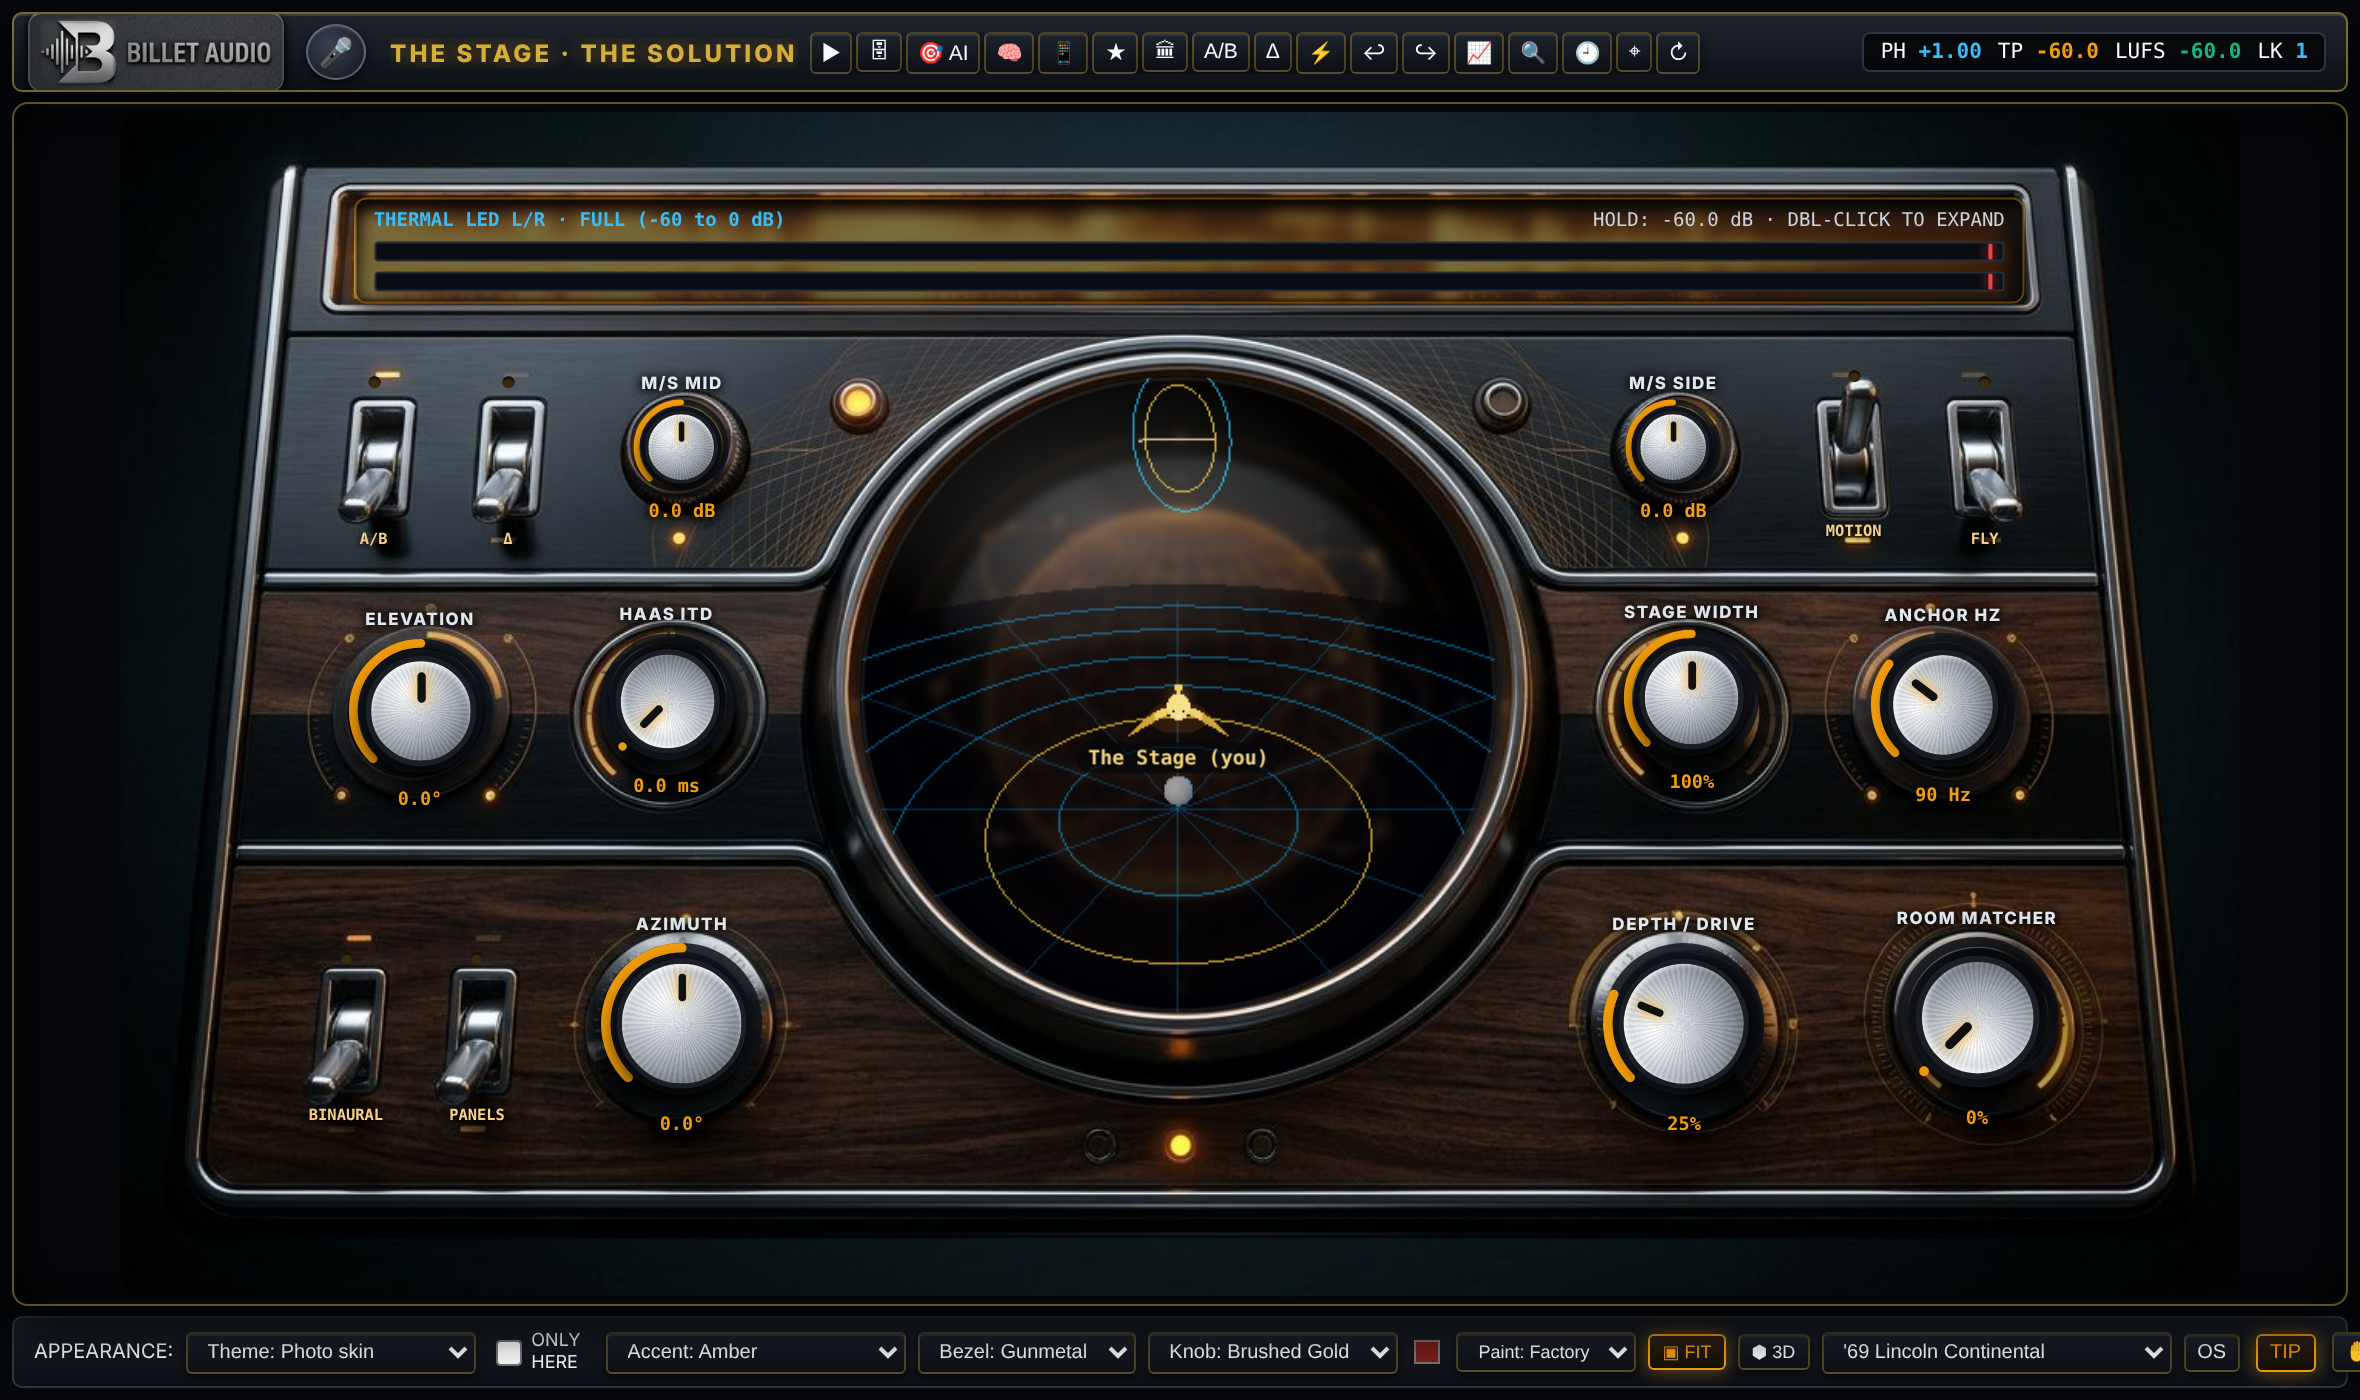
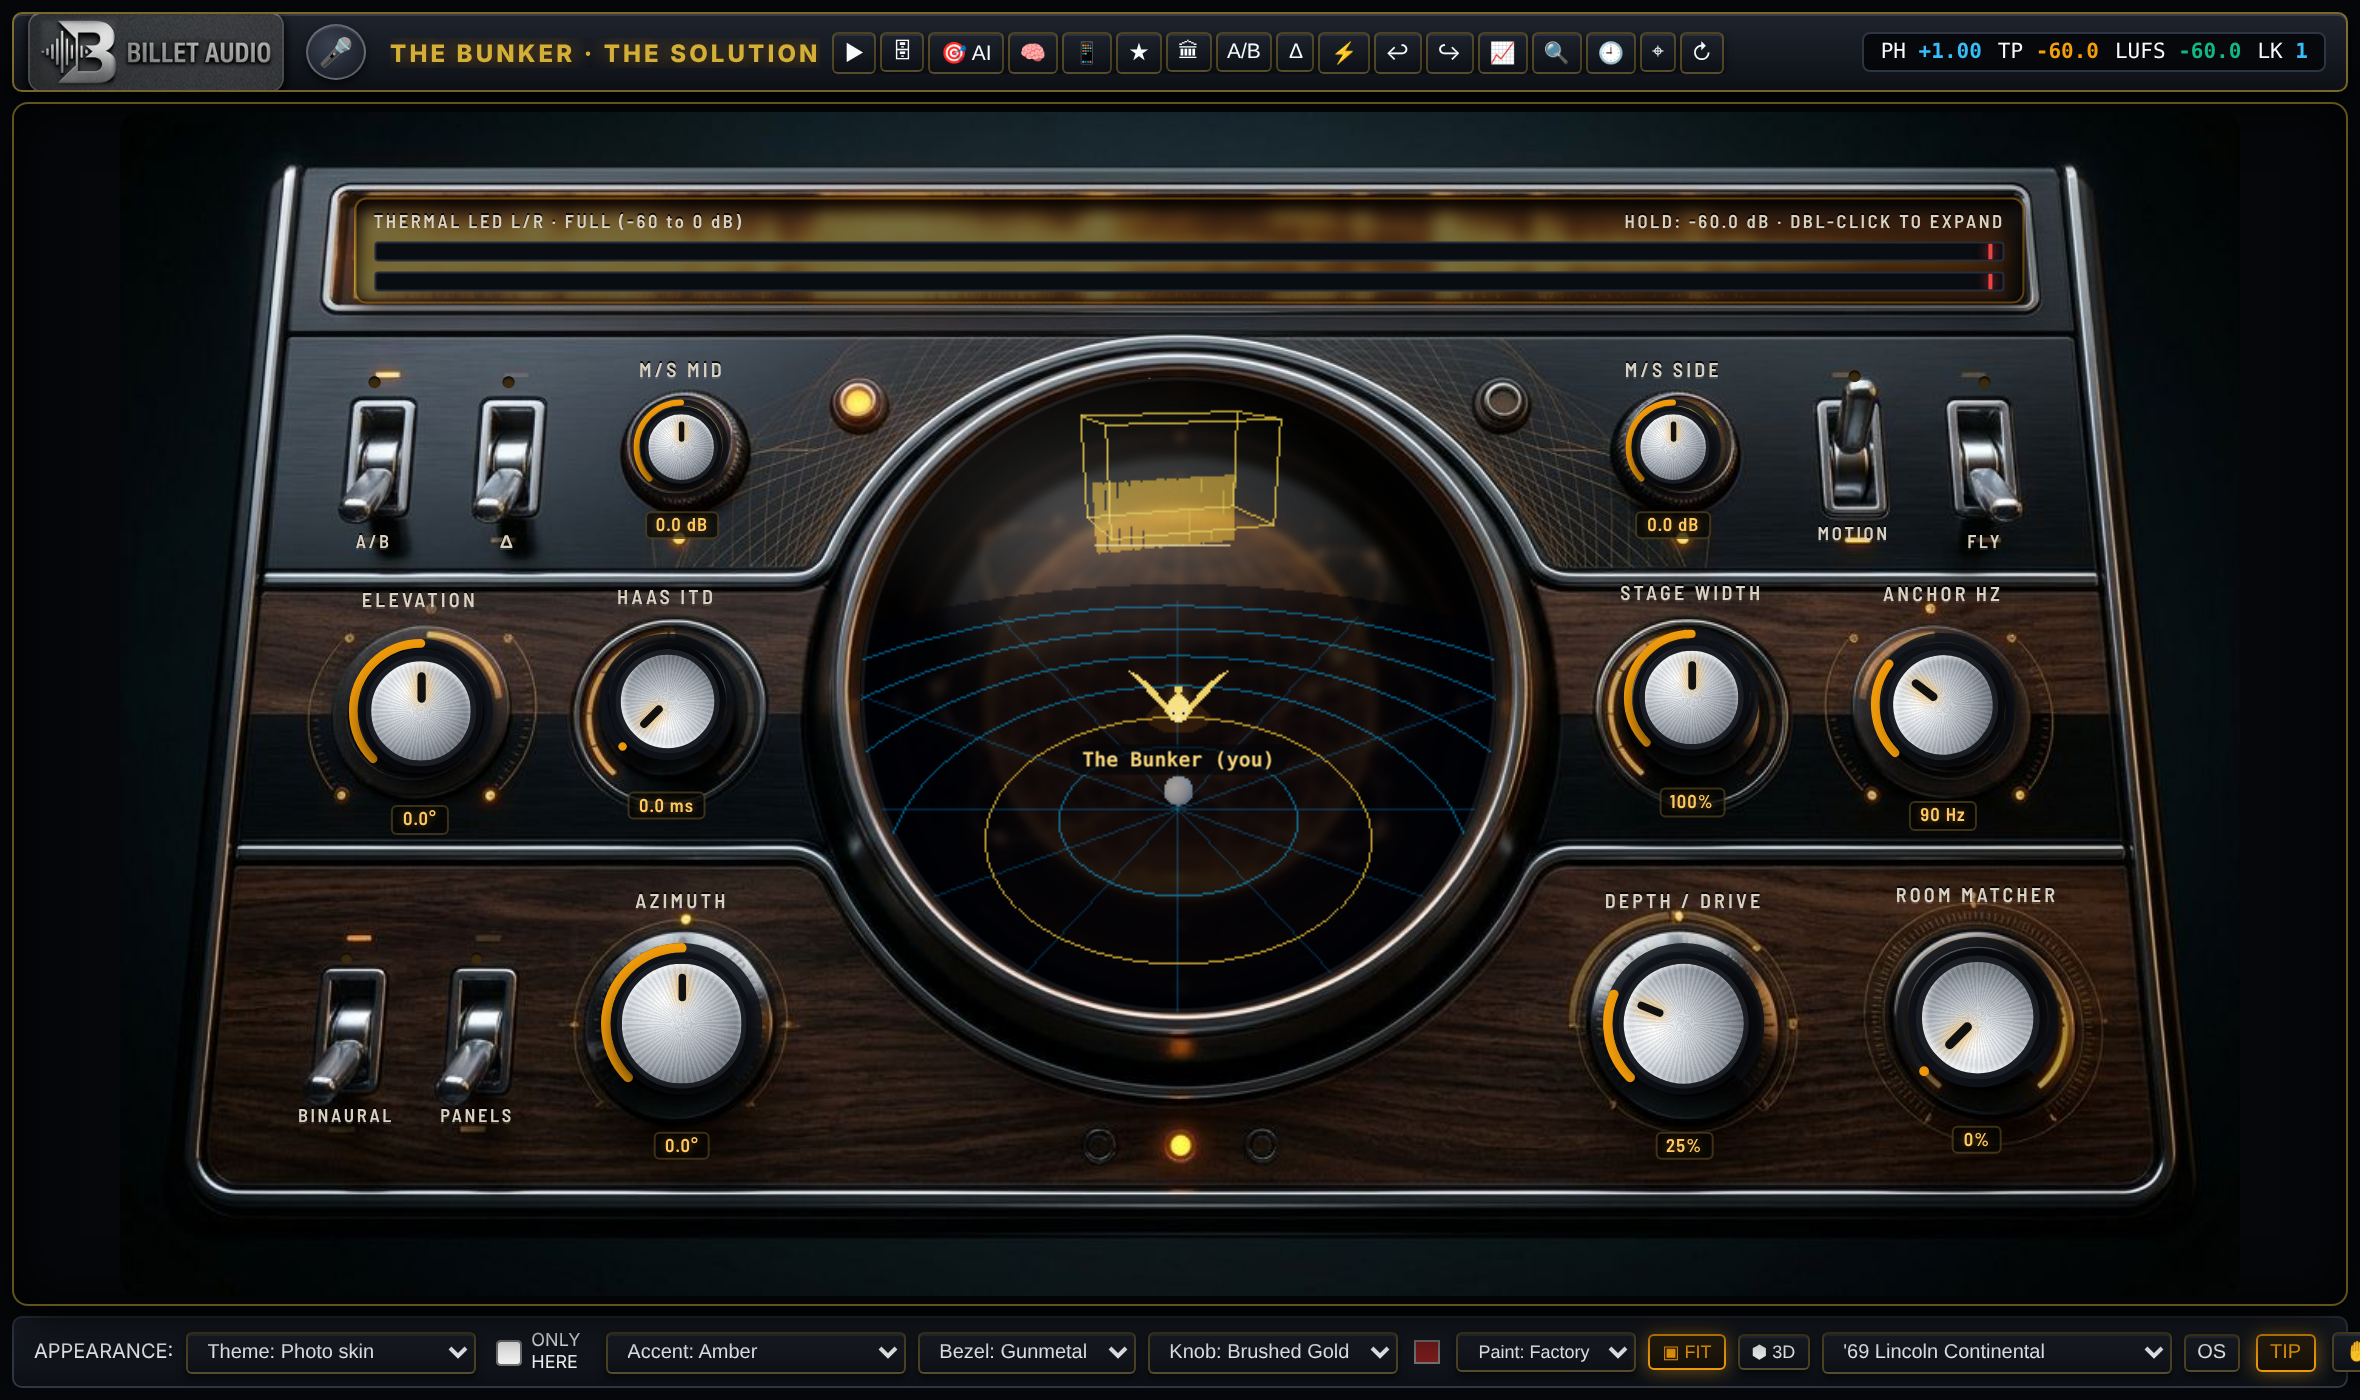
Faceplate lettering: bundled Barlow Semi Condensed (OFL), engraved labels and value plates kept clear of the knobs
Claude-Session: https://claude.ai/code/session_018gqoiotkSzwczoCciruwns

diff --git a/UI/index.html b/UI/index.html
@@ -615,18 +615,29 @@
     #plate .knob-wrap { transform: scale(var(--ks, 1)); filter: drop-shadow(0 4px 6px rgba(0,0,0,0.85)); }
     #plate .knob-cap { background: repeating-conic-gradient(from 0deg, rgba(255,255,255,0.07) 0 3deg, rgba(0,0,0,0.07) 3deg 6deg), radial-gradient(circle at 35% 30%, #ffffff 0%, #dfe3e8 22%, #9aa1aa 58%, #3a3f47 100%); border-color: #1b1f25; }
     #plate .knob-cap::after { background: #111; box-shadow: 0 0 5px var(--accent); }
-    #plate .knob-lbl { position: absolute; bottom: calc(50% + var(--rpx) + 1px); white-space: nowrap; font-size: max(7px, calc(var(--s) * 11px)); }
-    #plate .knob-val { position: absolute; top: calc(50% + var(--rpx) + 1px); white-space: nowrap; font-size: max(7.5px, calc(var(--s) * 12px)); }
+    /* Barlow Semi Condensed SemiBold (SIL Open Font License 1.1, Jeremy Tribby) - bundled so the plate lettering is identical on every computer */
[1 lines of base64/hex data omitted]
+    /* engraved-plate lettering, kept clear of the socket ring */
+    #plate { --plate-font: "PlateFont", "Bahnschrift SemiCondensed", "Bahnschrift", "DIN Condensed", "DIN Alternate", "Roboto Condensed", "Arial Narrow", sans-serif; }
+    #plate .knob-lbl { position: absolute; bottom: calc(50% + var(--rpx) * 1.3); white-space: nowrap; pointer-events: none;
+      font-family: var(--plate-font); font-weight: 600; font-size: max(7px, calc(var(--s) * 13px)); letter-spacing: 0.16em; color: #d9d2c2;
+      text-shadow: 0 -1px 0 rgba(0,0,0,0.85), 0 1px 0 rgba(255,255,255,0.12); }
+    #plate .knob-val { position: absolute; top: calc(50% + var(--rpx) * 1.24); white-space: nowrap; pointer-events: none;
+      font-family: var(--plate-font); font-weight: 600; font-size: max(7px, calc(var(--s) * 12px)); letter-spacing: 0.06em; color: #ffc861;
+      background: rgba(6,5,3,0.72); border: 1px solid rgba(255,200,97,0.22); border-radius: 3px; padding: 0 calc(var(--s) * 6px); line-height: 1.35;
+      text-shadow: 0 0 4px rgba(255,170,40,0.45); }
     #plate #vp { border-radius: 50%; border: none; box-shadow: inset 0 0 40px rgba(0,0,0,0.9); flex: none; background: radial-gradient(circle at 50% 45%, rgba(20,14,6,0.35), rgba(3,3,4,0.75) 75%); }
     #plate #vp .stage-bar, #plate #vp .vp-badge, #plate #vp .tach { display: none; }
     #plate #vp::after { content: ''; position: absolute; inset: 0; border-radius: 50%; pointer-events: none; z-index: 6;
       background: radial-gradient(ellipse 60% 35% at 38% 22%, rgba(255,255,255,0.16), transparent 70%); box-shadow: inset 0 0 0 2px rgba(255,255,255,0.08); }
     #plate #meterStrip { width: 100%; height: 100%; box-sizing: border-box; background: rgba(10,6,2,0.55); border-color: rgba(245,158,11,0.35); }
+    #plate .meter-strip-hdr, #plate .meter-strip-hdr span { font-family: var(--plate-font) !important; font-weight: 600; letter-spacing: 0.14em; color: #d9d2c2 !important; font-size: max(7px, calc(var(--s) * 12px)); text-shadow: 0 -1px 0 rgba(0,0,0,0.85); }
     #plate .ptog { position: absolute; transform: translate(-50%, -50%); cursor: pointer; border-radius: 6px; }
     #plate .ptog:hover { box-shadow: 0 0 0 1px var(--accent); }
     #plate .ptog i { position: absolute; left: 50%; top: -10px; transform: translateX(-50%); width: 6px; height: 6px; border-radius: 50%; background: #3a2a10; box-shadow: inset 0 1px 1px rgba(0,0,0,0.8); }
     #plate .ptog.on i { background: #ffcf5a; box-shadow: 0 0 8px #ffb020, 0 0 2px #fff; }
-    #plate .ptog b { position: absolute; left: 50%; bottom: -14px; transform: translateX(-50%); font: 700 max(7px, calc(var(--s) * 10px)) monospace; color: #f5d08a; white-space: nowrap; text-shadow: 0 1px 3px #000; }
+    #plate .ptog b { position: absolute; left: 50%; bottom: calc(var(--s) * -20px); transform: translateX(-50%); font-family: var(--plate-font); font-weight: 600; font-size: max(7px, calc(var(--s) * 12px));
+      letter-spacing: 0.14em; color: #d9d2c2; white-space: nowrap; text-shadow: 0 -1px 0 rgba(0,0,0,0.85), 0 1px 0 rgba(255,255,255,0.12); }
   </style>
 </head>
 <body>
